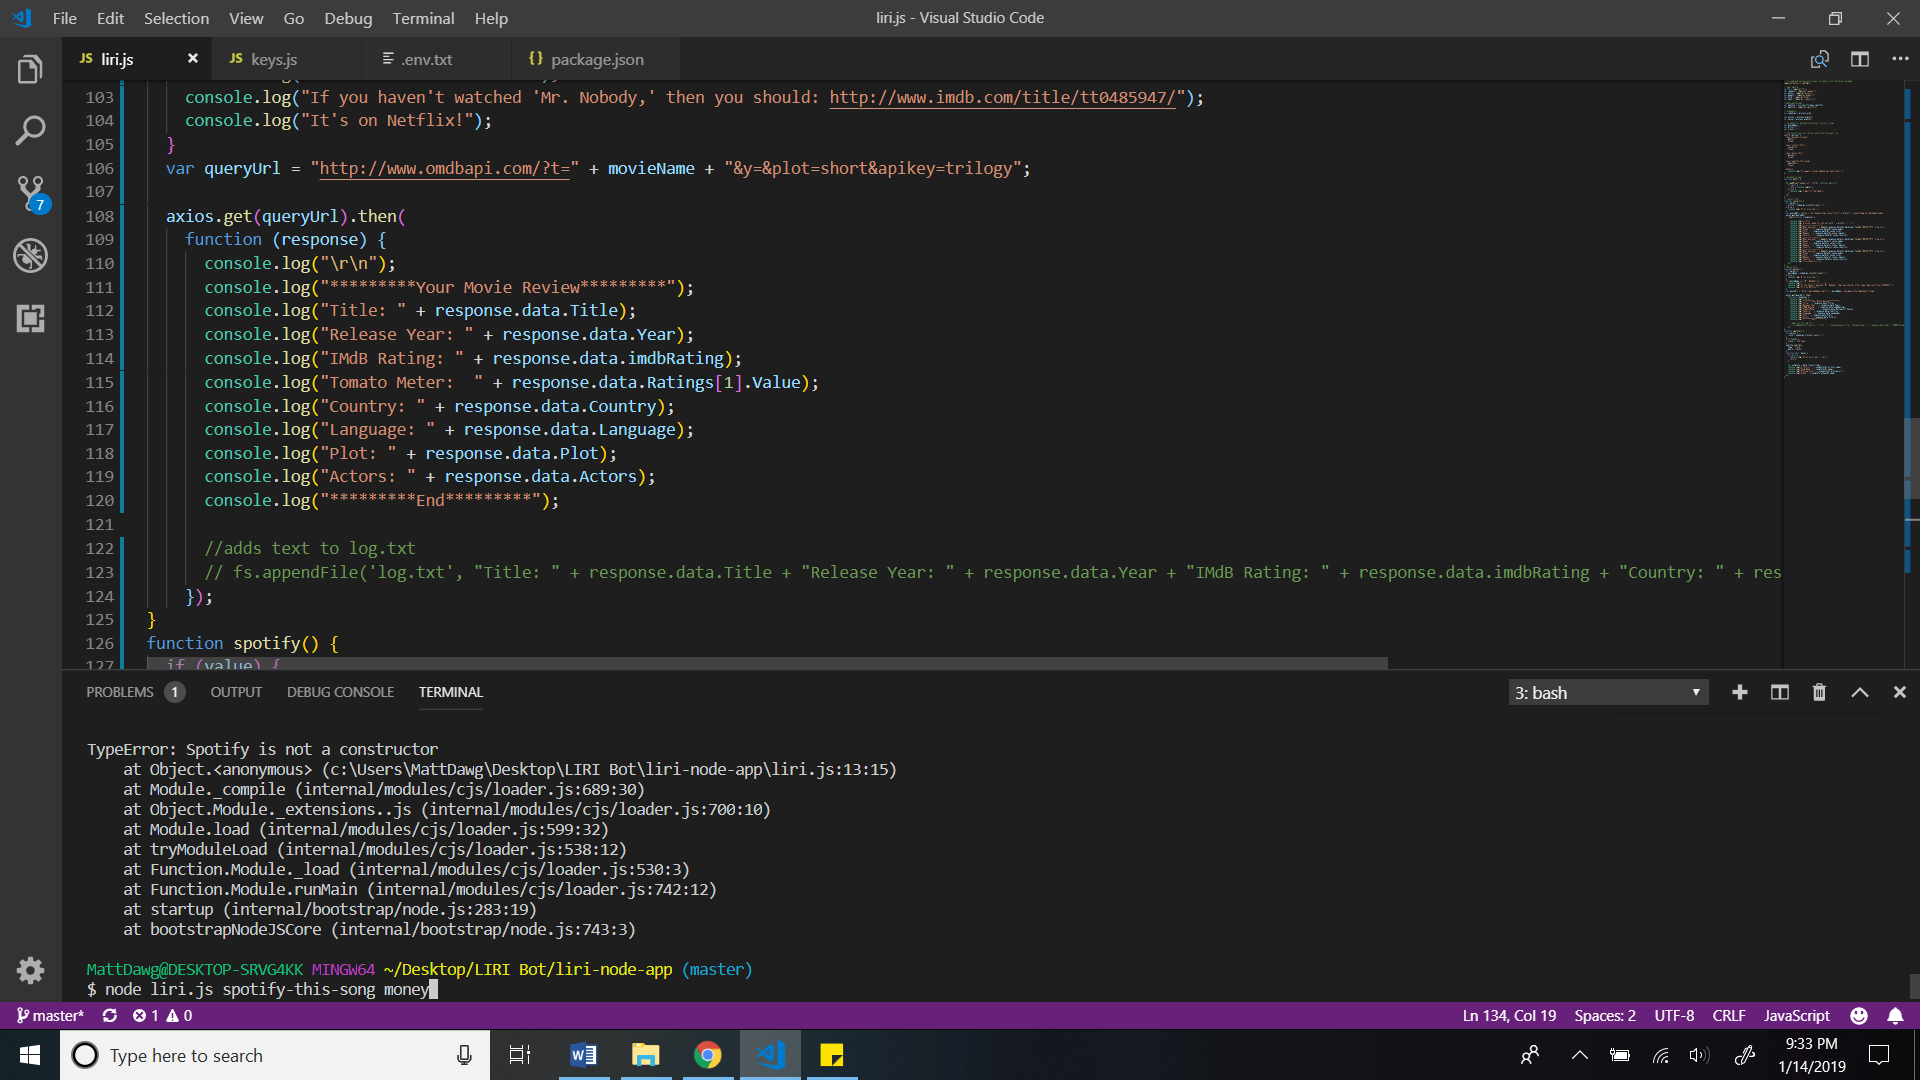
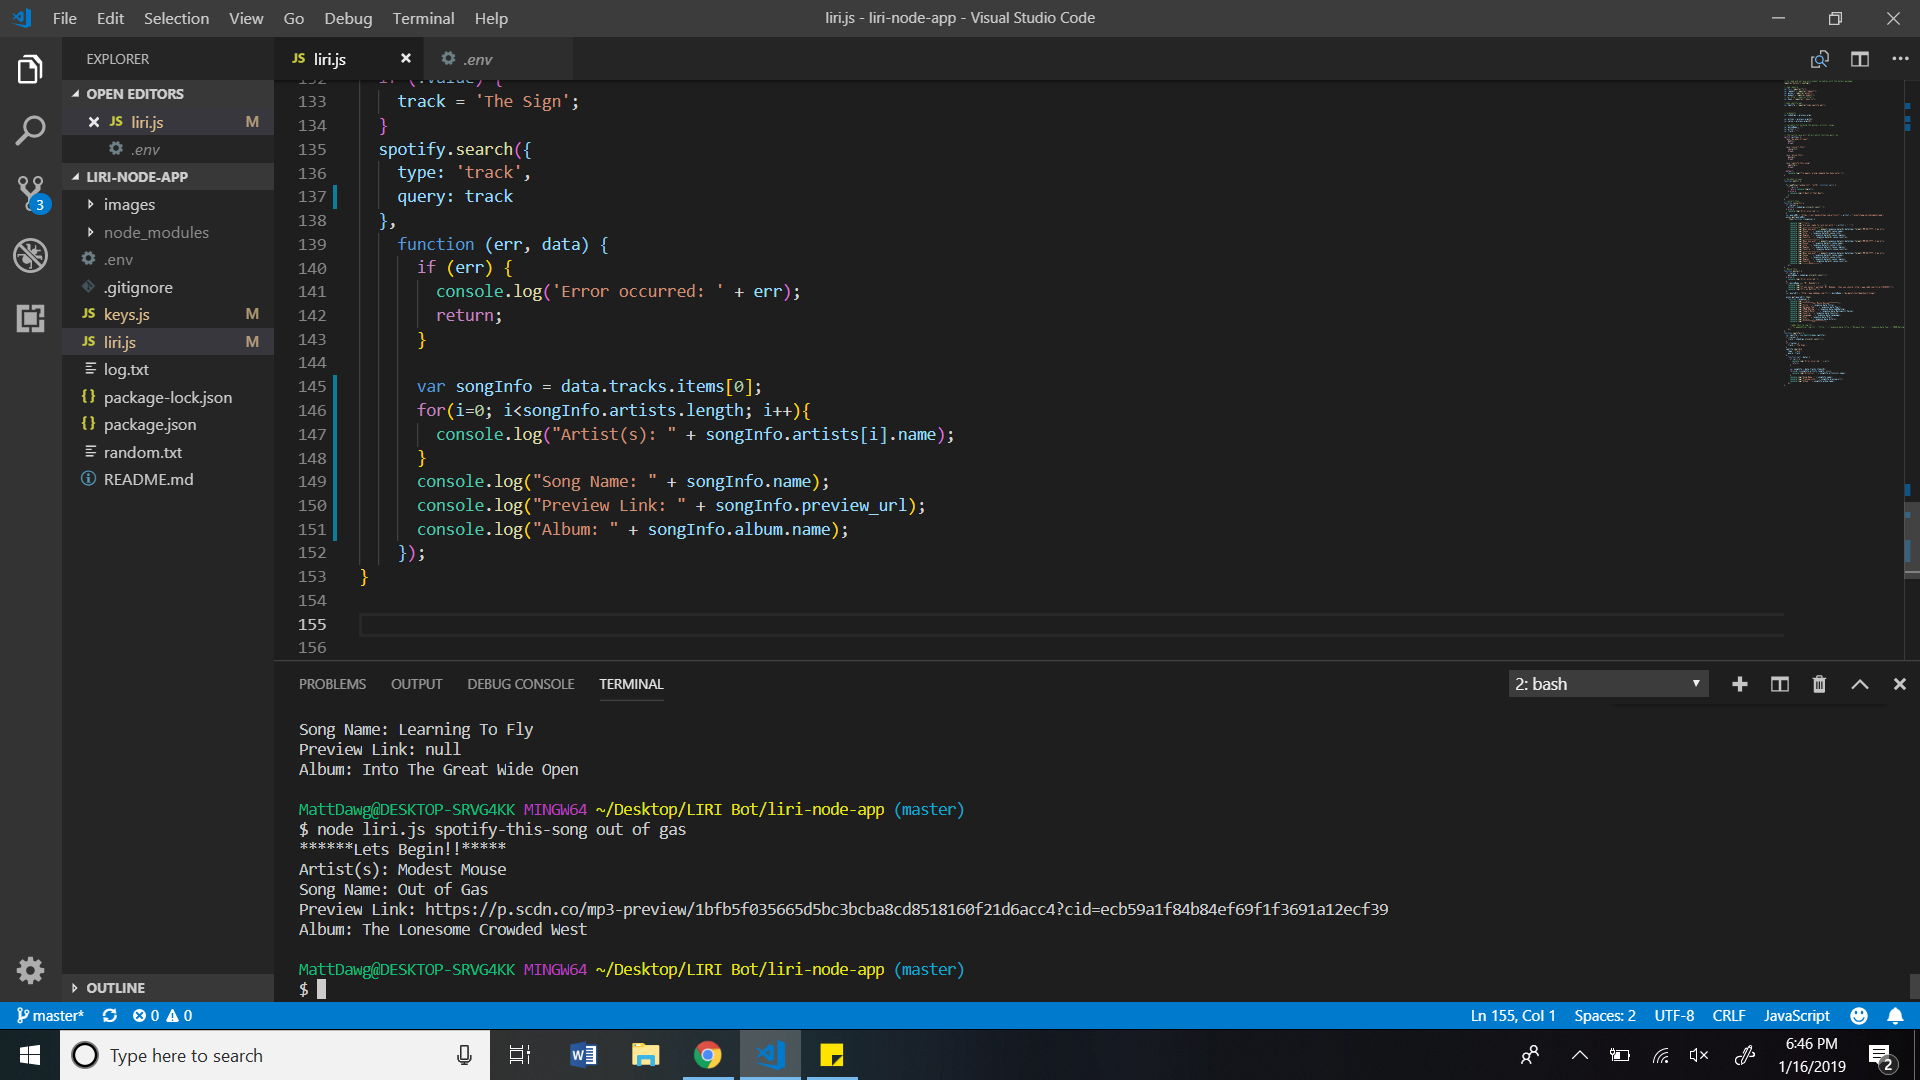
Spotify updated

diff --git a/liri.js b/liri.js
@@ -6,12 +6,13 @@ var fs = require("fs");
 var request = require("request");
 var axios = require("axios");
 var moment = require('moment');
-var http = require("http");
+// var http = require("http");
 var keys = require("./keys.js");
 
 //node-spotify-api
-var spotify = new Spotify(keys.spotify);
-var Spotify = require("spotify");
+var Spotify = require("node-spotify-api");
+
+
 
 // arguments
 var nodeArgs = process.argv;
@@ -124,15 +125,16 @@ function movie() {
     });
 }
 function spotify() {
+  var spotify = new Spotify(keys.spotify);
   if (value) {
-    track = nodeArgs.slice(3).join("+")
+    track = nodeArgs.slice(3).join("+");
   }
   if (!value) {
     track = 'The Sign';
   }
   spotify.search({
     type: 'track',
-    query: tracks
+    query: track
   },
     function (err, data) {
       if (err) {
@@ -140,11 +142,13 @@ function spotify() {
         return;
       }
 
-      var songInfo = data.tracks.items;
-      console.log("Artist(s): " + songInfo[0].artists.name);
-      console.log("Song Name: " + songInfo[0].name);
-      console.log("Preview Link: " + songInfo[0].preview_url);
-      console.log("Album: " + songInfo.album[0].name);
+      var songInfo = data.tracks.items[0];
+      for(i=0; i<songInfo.artists.length; i++){
+        console.log("Artist(s): " + songInfo.artists[i].name);
+      }
+      console.log("Song Name: " + songInfo.name);
+      console.log("Preview Link: " + songInfo.preview_url);
+      console.log("Album: " + songInfo.album.name);
     });
 }
 

diff --git a/keys.js b/keys.js
@@ -1,6 +1,6 @@
 console.log('******Lets Begin!!*****');
 
-exports.omdb = { key: process.env.omdbKey };
+// exports.omdb = { key: process.env.omdbKey };
 
 exports.spotify = {
   id: process.env.SPOTIFY_ID,
